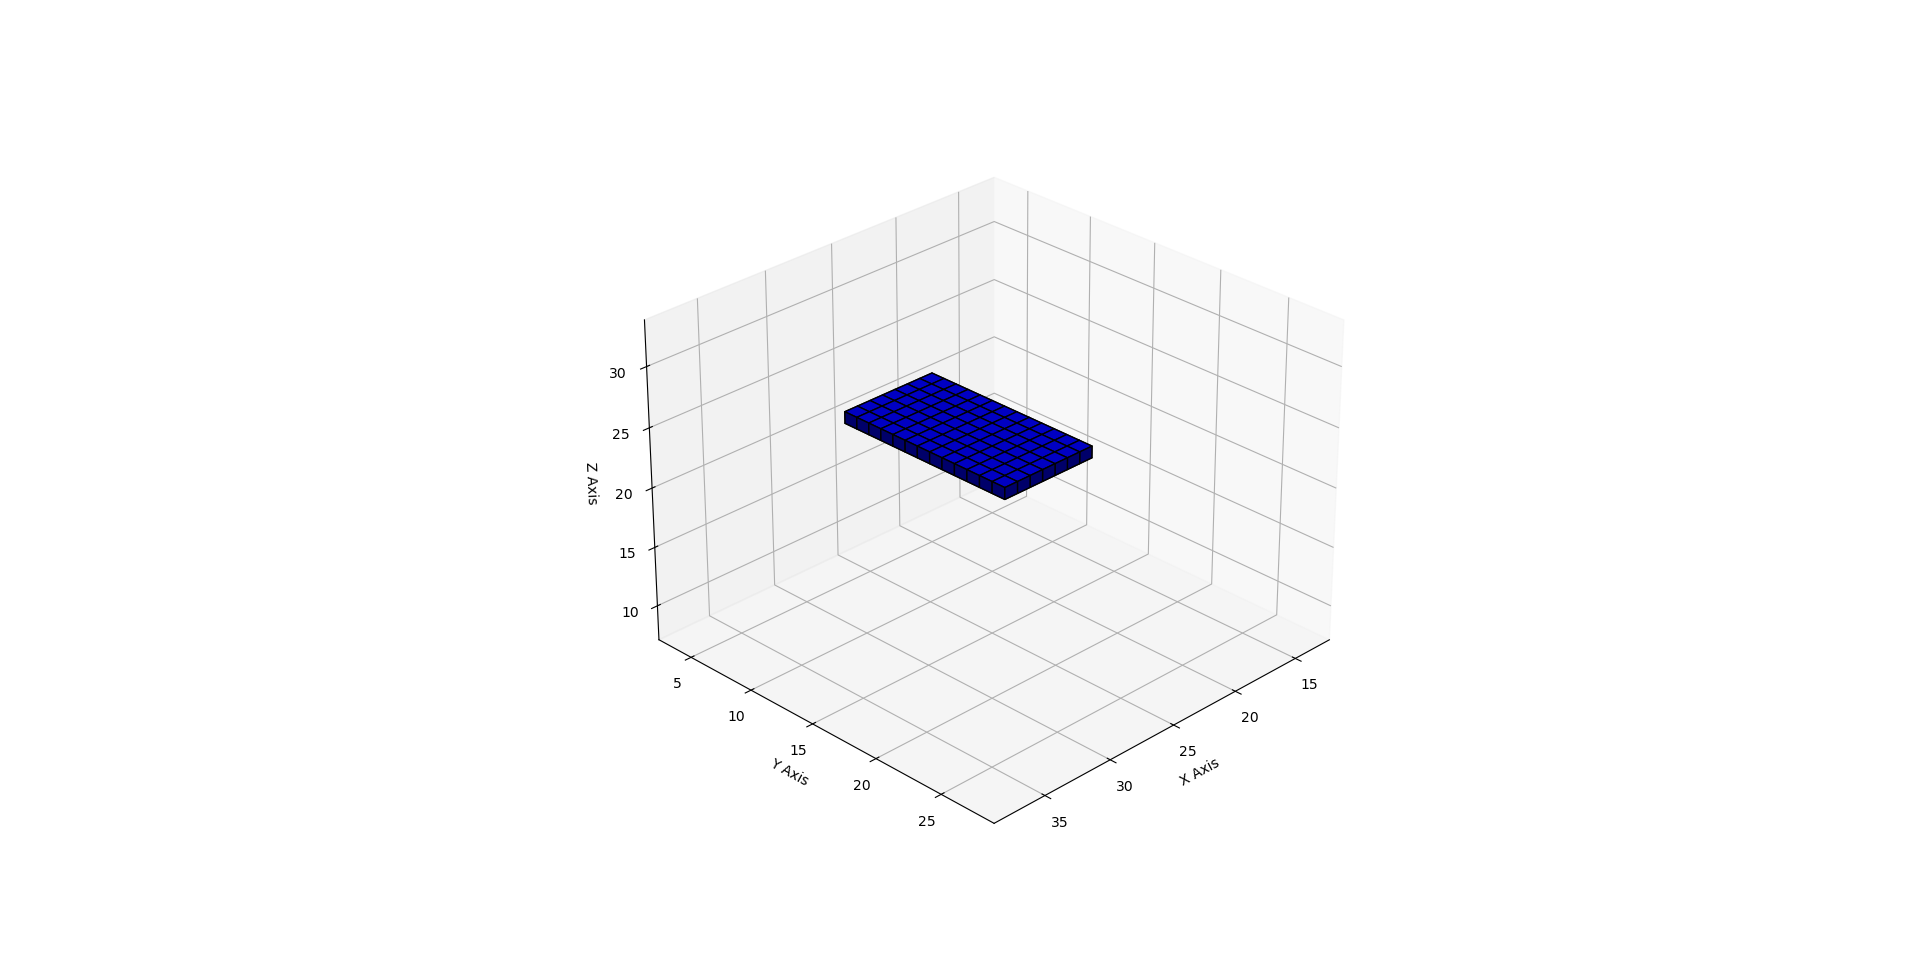
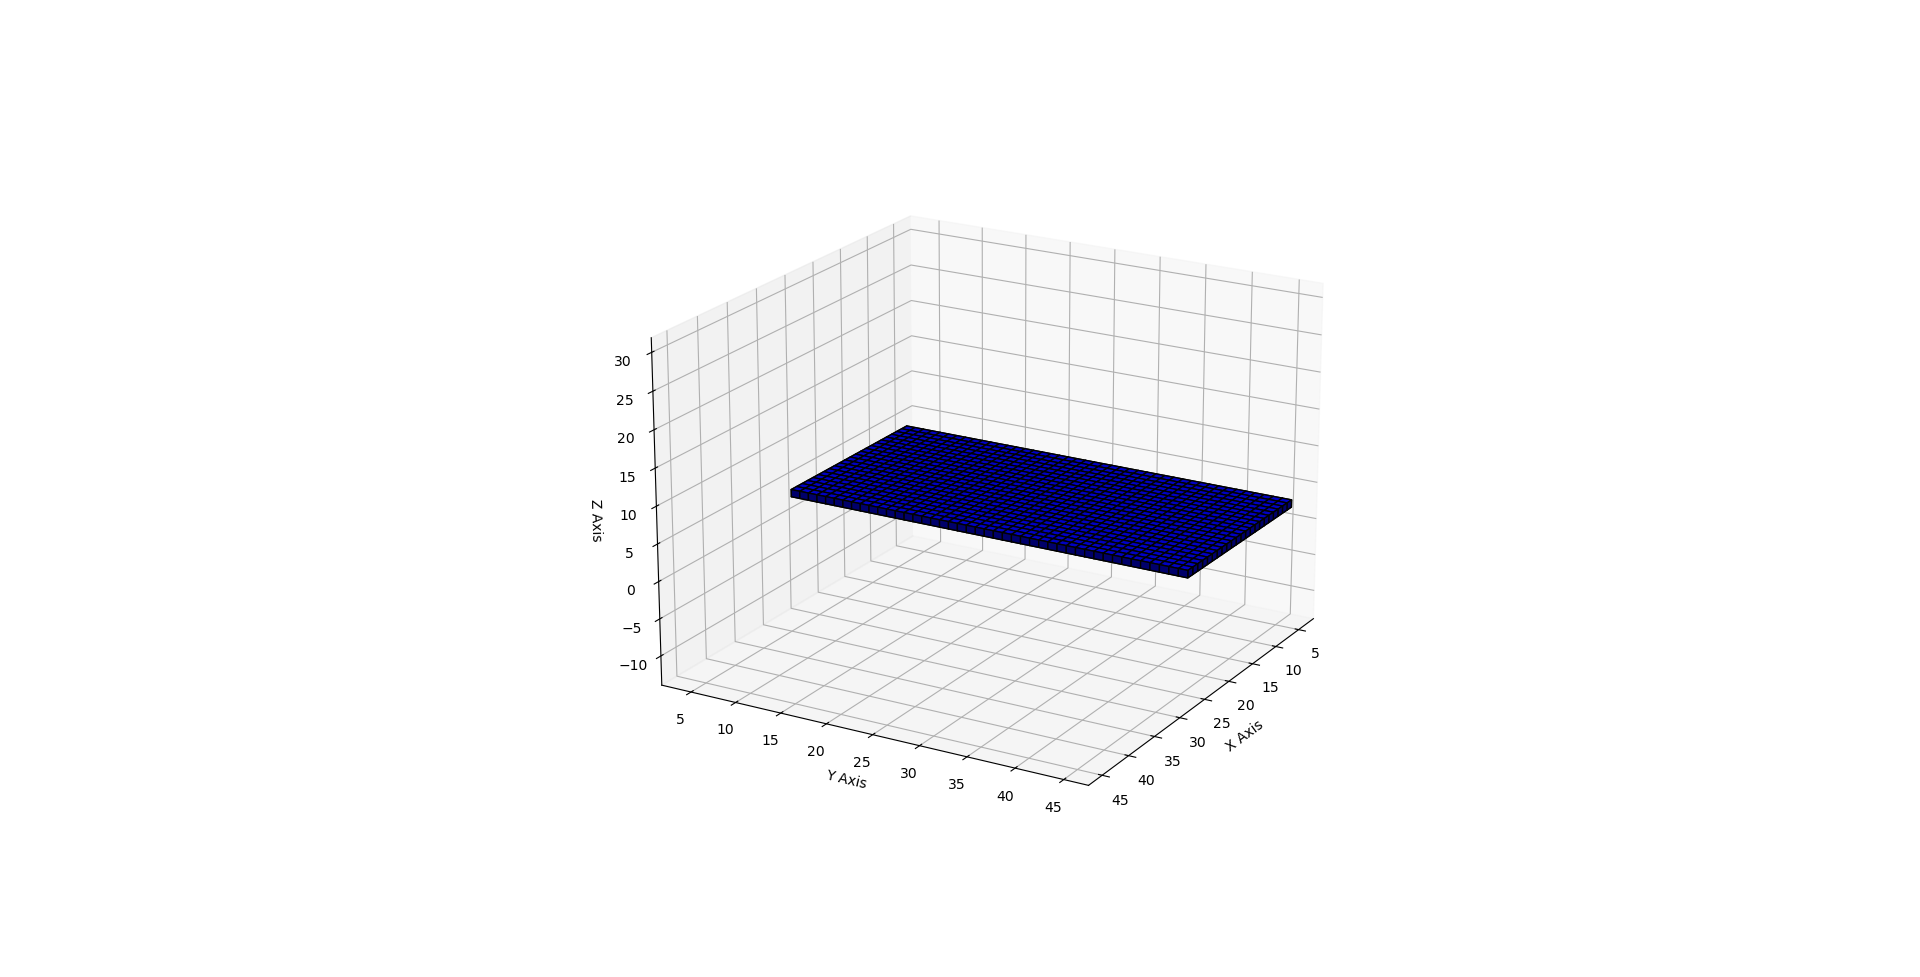
Flat_fin updated reference image for surge orientation

Changed region(s): [[0.3125, 0.2456, 0.6875, 0.8291], [0.5, 0.2456, 0.5938, 0.3378], [0.4688, 0.7984, 0.5, 0.8291]]

diff --git a/training_files/flat_fin/from_txt_to_voxel.py b/training_files/flat_fin/from_txt_to_voxel.py
@@ -1,52 +1,6 @@
 import numpy as np
 
-# Definir dos matrices de ejemplo
-# middle_matrix = np.array([
-#                  [0, 0, 0, 0, 0, 0, 0, 0, 0, 0, 0, 0, 0, 0, 0, 0, 0],
-# 				 [0, 0, 0, 0, 0, 0, 0, 0, 0, 0, 0, 0, 0, 0, 0, 0, 0],
-# 				 [0, 0, 0, 0, 0, 0, 0, 0, 0, 0, 0, 0, 0, 0, 0, 0, 0],
-# 				 [0, 0, 0, 0, 0, 0, 0, 0, 0, 0, 0, 0, 0, 0, 0, 0, 0],
-# 				 [0, 0, 0, 0, 0, 0, 0, 0, 0, 0, 0, 0, 0, 0, 0, 0, 0],
-# 				 [0, 0, 0, 0, 0, 0, 0, 0, 0, 0, 0, 0, 0, 0, 0, 0, 0],
-# 				 [0, 0, 0, 0, 0, 0, 0, 0, 0, 0, 0, 0, 0, 0, 0, 0, 0],
-# 				 [0, 0, 0, 0, 0, 0, 0, 0, 0, 0, 0, 0, 0, 0, 0, 0, 0],
-# 				 [0, 0, 0, 0, 0, 0, 0, 0, 0, 0, 0, 0, 0, 0, 0, 0, 0],
-# 				 [0, 0, 0, 0, 0, 0, 0, 0, 0, 0, 0, 0, 0, 0, 0, 0, 0],
-# 				 [0, 0, 0, 0, 0, 0, 0, 0, 0, 0, 0, 0, 0, 0, 0, 0, 0],
-# 				 [0, 0, 0, 0, 0, 0, 0, 0, 0, 0, 0, 0, 0, 0, 0, 0, 0],
-# 				 [0, 0, 0, 0, 0, 0, 0, 0, 0, 0, 0, 0, 0, 0, 0, 0, 0],
-# 				 [0, 0, 0, 0, 0, 0, 0, 0, 0, 0, 0, 0, 0, 0, 0, 0, 0],
-# 				 [0, 0, 0, 0, 0, 0, 0, 0, 0, 0, 0, 0, 0, 0, 0, 0, 0],
-# 				 [0, 0, 0, 0, 0, 0, 0, 0, 0, 0, 0, 0, 0, 0, 0, 0, 0],
-# 				 [0, 0, 0, 0, 0, 0, 0, 0, 0, 0, 0, 0, 0, 0, 0, 0, 0],
-# 				 [0, 0, 1, 1, 1, 1, 1, 1, 1, 1, 1, 1, 1, 1, 1, 0, 0], 
-# 				 [0, 0, 1, 1, 1, 1, 1, 1, 1, 1, 1, 1, 1, 1, 1, 0, 0],
-# 				 [0, 0, 1, 1, 1, 1, 1, 1, 1, 1, 1, 1, 1, 1, 1, 0, 0],
-# 				 [0, 0, 1, 1, 1, 1, 1, 1, 1, 1, 1, 1, 1, 1, 1, 0, 0], #18 middle of the hull
-# 				 [0, 0, 1, 1, 1, 1, 1, 1, 1, 1, 1, 1, 1, 1, 1, 0, 0],
-# 				 [0, 0, 1, 1, 1, 1, 1, 1, 1, 1, 1, 1, 1, 1, 1, 0, 0],
-# 				 [0, 0, 1, 1, 1, 1, 1, 1, 1, 1, 1, 1, 1, 1, 1, 0, 0],
-#                  [0, 0, 0, 0, 0, 0, 0, 0, 0, 0, 0, 0, 0, 0, 0, 0, 0],
-# 				 [0, 0, 0, 0, 0, 0, 0, 0, 0, 0, 0, 0, 0, 0, 0, 0, 0],
-# 				 [0, 0, 0, 0, 0, 0, 0, 0, 0, 0, 0, 0, 0, 0, 0, 0, 0],
-# 				 [0, 0, 0, 0, 0, 0, 0, 0, 0, 0, 0, 0, 0, 0, 0, 0, 0],
-# 				 [0, 0, 0, 0, 0, 0, 0, 0, 0, 0, 0, 0, 0, 0, 0, 0, 0],
-# 				 [0, 0, 0, 0, 0, 0, 0, 0, 0, 0, 0, 0, 0, 0, 0, 0, 0],
-# 				 [0, 0, 0, 0, 0, 0, 0, 0, 0, 0, 0, 0, 0, 0, 0, 0, 0],
-# 				 [0, 0, 0, 0, 0, 0, 0, 0, 0, 0, 0, 0, 0, 0, 0, 0, 0],
-# 				 [0, 0, 0, 0, 0, 0, 0, 0, 0, 0, 0, 0, 0, 0, 0, 0, 0],
-# 				 [0, 0, 0, 0, 0, 0, 0, 0, 0, 0, 0, 0, 0, 0, 0, 0, 0],
-# 				 [0, 0, 0, 0, 0, 0, 0, 0, 0, 0, 0, 0, 0, 0, 0, 0, 0],
-# 				 [0, 0, 0, 0, 0, 0, 0, 0, 0, 0, 0, 0, 0, 0, 0, 0, 0],
-# 				 [0, 0, 0, 0, 0, 0, 0, 0, 0, 0, 0, 0, 0, 0, 0, 0, 0],
-# 				 [0, 0, 0, 0, 0, 0, 0, 0, 0, 0, 0, 0, 0, 0, 0, 0, 0],
-# 				 [0, 0, 0, 0, 0, 0, 0, 0, 0, 0, 0, 0, 0, 0, 0, 0, 0],
-# 				 [0, 0, 0, 0, 0, 0, 0, 0, 0, 0, 0, 0, 0, 0, 0, 0, 0],
-# 				 [0, 0, 0, 0, 0, 0, 0, 0, 0, 0, 0, 0, 0, 0, 0, 0, 0]])
-				 
-
 result_matrix = np.ones((1,22,44))
-# zeros_matrix = np.zeros(middle_matrix.shape)
 
 print(result_matrix.shape)
 
@@ -75,27 +29,13 @@ def rotate_180_YZ(matrix):
     return np.rot90(matrix, k=2, axes=(1, 2))
 
 
-n = 7
-# stacked_matrices = np.repeat(zeros_matrix[np.newaxis, ...], n, axis=0)
-
-# final matrix to voxel
-# result_matrix = np.stack((zeros_matrix,zeros_matrix,zeros_matrix,zeros_matrix,zeros_matrix,
-#                           zeros_matrix,zeros_matrix,zeros_matrix,zeros_matrix,zeros_matrix,
-#                           zeros_matrix,zeros_matrix,zeros_matrix,zeros_matrix,zeros_matrix,
-#                           zeros_matrix,zeros_matrix, zeros_matrix, 
-#                           middle_matrix, 
-#                           zeros_matrix, zeros_matrix,zeros_matrix,
-#                           zeros_matrix,zeros_matrix,zeros_matrix,zeros_matrix,zeros_matrix,
-#                           zeros_matrix,zeros_matrix,zeros_matrix,zeros_matrix,zeros_matrix,
-#                           zeros_matrix,zeros_matrix,zeros_matrix,zeros_matrix,zeros_matrix,), axis=0)
-
 
 # Print Final Matrix shape
 print("Matriz resultante:")
 print(result_matrix.shape)
 
-# result_matrix = rotate_180_XY(rotate_90_YZ(rotate_90_XY(result_matrix))) # Proper orientation for surge motion 
-result_matrix = rotate_180_XY(result_matrix) # Proper orientation for heave motion 
+result_matrix = rotate_180_XY(rotate_90_YZ(rotate_90_XY(result_matrix))) # Proper orientation for surge motion 
+# result_matrix = rotate_180_XY(result_matrix) # Proper orientation for heave motion 
 print(result_matrix.shape)
 
 obj_name = "flat_fin"
